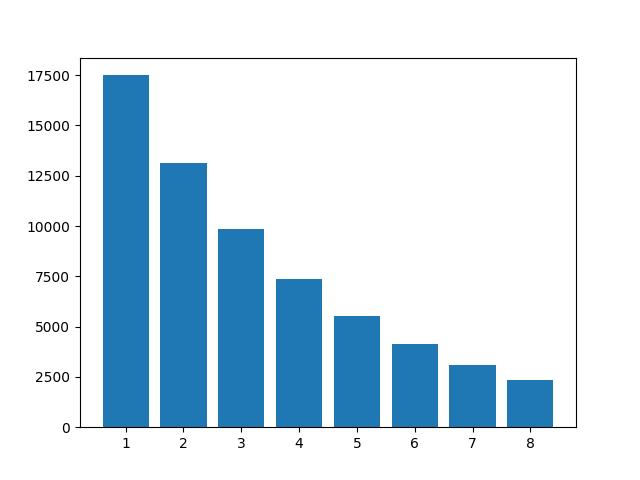
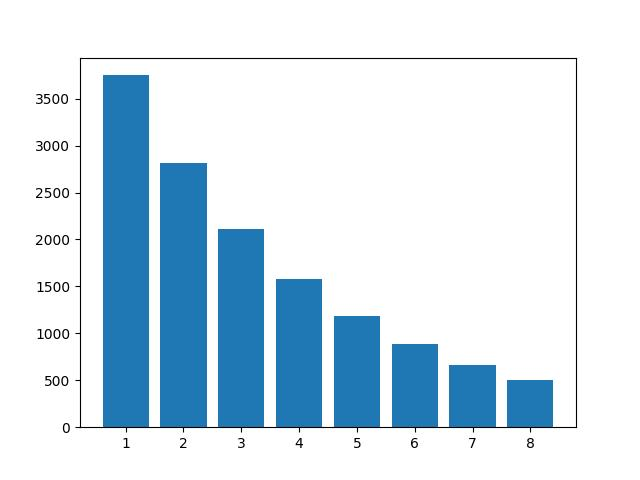
Изменения 2

diff --git a/main.py b/main.py
@@ -100,6 +100,93 @@
 #Были изменены переменные и добавлены комментарии 
 #Анна Глухова отвечала на вопросы
 #Оценка ответов на вопросы 5/5, проверила Романова Елизавета.
+#Задание номер 5 выполнено
+
+
+#№7
+# изменение со 2 на 6 вариант (15000/8)
+# линейный способ
+from sympy import *
+k, T, C, L = symbols('k T C L')
+C_ost = 15000
+Am_lst =[]
+C_ost_lst=[]
+for i in range(8):
+  Am = (C-L)/T #что это означает? - это формула амортизации
+  C_ost -= Am.subs({C:15000, T:8, L:0})
+  Am_lst.append(round(Am.subs({C: 15000, T:8, L:0}),2))
+  C_ost_lst.append(round(C_ost, 2))
+print('Am_lst:', Am_lst)
+print('C_ost_lst:', C_ost_lst)
+
+#способ уменьшаемого остатка
+Aj=0
+C_ost = 15000
+Am_lst_2=[]
+C_ost_lst_2=[] #Что это?
+for i in range(8):
+  Am = k*1/T*(C - Aj)
+  C_ost -= Am.subs({C:15000, T:8, k:2})
+  Am_lst_2.append(round(Am.subs({C:15000, T:8, k:2}), 2))
+  Aj += Am
+  C_ost_lst_2.append(round(C_ost,2))
+print('Am_lst_2:', Am_lst_2) #Что это? - вывод списка амортизации
+print('C_ost_lst_2:', C_ost_lst_2)
+
+#Контейнер табличного вывода
+import pandas as pd
+Y = range(1, 9) #Что это? - последовательность целых чисел от 1 до 9
+table1 = list(zip(Y, C_ost_lst, Am_lst))
+table2 = list(zip(Y, C_ost_lst_2, Am_lst_2))
+tfame = pd.DataFrame(table1, columns = ['Y', 'C_ost_lst', 'Am_lst'])
+tfame2 = pd.DataFrame(table2, columns = ['Y', 'C_ost_lst_2', 'Am_lst_2'])
+print(tfame)
+print(tfame2)
+
+#визуализация
+
+import numpy as np
+import matplotlib.pyplot as plt
+plt.plot(tfame['Y'], tfame['C_ost_lst'], label='Am')
+plt.savefig('chart7.png') #Что это? - сохранение графика 7 в файл
+plt.figure()
+plt.plot(tfame2['Y'], tfame2['C_ost_lst_2'], label='Am2')
+plt.savefig('chart8.png')
+plt.figure() #Что это? - создание нового окна для графика
+
+plt.figure()
+vals = Am_lst #Что это? - Присваивание переменной vals значения переменной Am_lst
+labels = [str(x) for x in range(1,9)]
+explode = (0.1,0.1,0.1,0.1,0.1,0.1,0.1,0.1)
+fig, ax = plt.subplots()
+ax.pie(vals, labels=labels, autopct='%1.1f%%', shadow=True, explode=explode, wedgeprops={'lw':1, 'ls':'--', 'edgecolor':"k"}, rotatelabels=True)
+ax.axis("equal")
+plt.savefig('chart9.png')
+plt.figure() #что это? - создание нового окна для графика
+
+plt.figure()
+vals = Am_lst_2
+labels = [str(x) for x in range(1,9)]
+explode = (0.1,0.1,0.1,0.1,0.1,0.1,0.1,0.1)
+fig, ax = plt.subplots()
+ax.pie(vals, labels=labels, autopct='%1.1f%%', shadow=True, explode=explode, wedgeprops={'lw':1, 'ls':'--', 'edgecolor':"k"}, rotatelabels=True)
+ax.axis("equal")
+plt.savefig('chart10.png')
+plt.clf() #Что это? - очистка текущего графика
+plt.figure()
+
+
+table1 = list(zip(Y, Am_lst))
+table2 = list(zip(Y, Am_lst_2))
+tframe = pd.DataFrame(table1, columns=['Y', 'Am_lst'])
+tframe2 = pd.DataFrame(table2, columns=['Y', 'Am_lst_2'])
+plt.bar(tfame['Y'], tfame['Am_lst'])
+plt.savefig('chart11.jpeg')
+plt.figure()
+plt.bar(tfame2['Y'], tfame2['Am_lst_2']) #Что это? - построение столбчатой диаграммы
+plt.savefig('chart12.jpeg')
+plt.figure()
+
 
 
 #Индивидуальное задание лр 3
@@ -107,135 +194,135 @@
 # КОНТЕЙНЕР ЗАЩИТЫ ОТ СКРЫТНОГО ВКЛЮЧЕНИЯ В БОТ-СЕТЬ
 # Вариант 12 
 
-import pandas as pd
-import matplotlib.pyplot as plt
+# import pandas as pd
+# import matplotlib.pyplot as plt
 
-# Данные
-ip_addresses = [
-    "185.130.5.253", "8.8.8.8", "94.23.15.12", "1.1.1.1",
-    "193.42.4.1", "176.9.75.45", "8.8.4.4", "89.45.87.12",
-    "5.188.86.45", "208.67.222.222"
-]
+# # Данные
+# ip_addresses = [
+#     "185.130.5.253", "8.8.8.8", "94.23.15.12", "1.1.1.1",
+#     "193.42.4.1", "176.9.75.45", "8.8.4.4", "89.45.87.12",
+#     "5.188.86.45", "208.67.222.222"
+# ]
 
-C2_SERVERS = ["185.130.5.253", "94.23.15.12", "193.42.4.1", 
-              "176.9.75.45", "89.45.87.12", "5.188.86.45"]
+# C2_SERVERS = ["185.130.5.253", "94.23.15.12", "193.42.4.1", 
+#               "176.9.75.45", "89.45.87.12", "5.188.86.45"]
 
-n = len(ip_addresses)  # n = 10
+# n = len(ip_addresses)  # n = 10
 
-# Фиксированные данные (10 значений для каждого показателя)
-connections_count = [150, 30, 180, 20, 120, 10, 90, 200, 80, 40]
-suspicious_port =   [1,   0,  1,   0,  1,   0,  0,  1,   0,  0]
-unknown_process =   [1,   0,  1,   0,  1,   0,  0,  1,   0,  0]
-high_traffic =      [1,   0,  1,   0,  1,   0,  0,  1,   0,  0]
-night_activity =    [0,   1,  0,   1,  0,   1,  1,  0,   1,  1]
+# # Фиксированные данные (10 значений для каждого показателя)
+# connections_count = [150, 30, 180, 20, 120, 10, 90, 200, 80, 40]
+# suspicious_port =   [1,   0,  1,   0,  1,   0,  0,  1,   0,  0]
+# unknown_process =   [1,   0,  1,   0,  1,   0,  0,  1,   0,  0]
+# high_traffic =      [1,   0,  1,   0,  1,   0,  0,  1,   0,  0]
+# night_activity =    [0,   1,  0,   1,  0,   1,  1,  0,   1,  1]
 
-# Определяем C&C сервер (1 - да, 0 - нет)
-c2_server = []
-for i in range(n):
-    if ip_addresses[i] in C2_SERVERS:
-        c2_server.append(1)
-    else:
-        c2_server.append(0)
+# # Определяем C&C сервер (1 - да, 0 - нет)
+# c2_server = []
+# for i in range(n):
+#     if ip_addresses[i] in C2_SERVERS:
+#         c2_server.append(1)
+#     else:
+#         c2_server.append(0)
 
-# Расчет угрозы и решений
-threat_level = []
-decision = []
+# # Расчет угрозы и решений
+# threat_level = []
+# decision = []
 
-for i in range(n):
-    threat = 0
-    if connections_count[i] > 100:
-        threat += 1
-    if suspicious_port[i] == 1:
-        threat += 1
-    if unknown_process[i] == 1:
-        threat += 2
-    if high_traffic[i] == 1:
-        threat += 1
-    if c2_server[i] == 1:
-        threat += 3
-    if night_activity[i] == 1:
-        threat += 1
+# for i in range(n):
+#     threat = 0
+#     if connections_count[i] > 100:
+#         threat += 1
+#     if suspicious_port[i] == 1:
+#         threat += 1
+#     if unknown_process[i] == 1:
+#         threat += 2
+#     if high_traffic[i] == 1:
+#         threat += 1
+#     if c2_server[i] == 1:
+#         threat += 3
+#     if night_activity[i] == 1:
+#         threat += 1
 
-    threat_level.append(threat)
-    decision.append("BLOCK" if threat >= 3 else "ALLOW")
+#     threat_level.append(threat)
+#     decision.append("BLOCK" if threat >= 3 else "ALLOW")
 
-# Таблица результатов
-data = list(zip(range(1, n+1), ip_addresses, connections_count, 
-                suspicious_port, unknown_process, high_traffic, 
-                c2_server, night_activity, threat_level, decision))
+# # Таблица результатов
+# data = list(zip(range(1, n+1), ip_addresses, connections_count, 
+#                 suspicious_port, unknown_process, high_traffic, 
+#                 c2_server, night_activity, threat_level, decision))
 
-df = pd.DataFrame(data, columns=[
-    "ID", "IP адрес", "Соединений", "Подозр. порт",
-    "Подозр. процесс", "Высокий трафик", "C&C сервер",
-    "Ночная активность", "Уровень угрозы", "Решение"
-])
-
-
-print("ЗАЩИТА ОТ СКРЫТНОГО ВКЛЮЧЕНИЯ В БОТ-СЕТЬ (Вариант 12)")
-
-print(df.to_string(index=False))
-print("\nСтатистика решений:")
-print(df["Решение"].value_counts())
+# df = pd.DataFrame(data, columns=[
+#     "ID", "IP адрес", "Соединений", "Подозр. порт",
+#     "Подозр. процесс", "Высокий трафик", "C&C сервер",
+#     "Ночная активность", "Уровень угрозы", "Решение"
+# ])
 
 
-# ============================================================
-# ВИЗУАЛИЗАЦИЯ
-# ============================================================
+# print("ЗАЩИТА ОТ СКРЫТНОГО ВКЛЮЧЕНИЯ В БОТ-СЕТЬ (Вариант 12)")
 
-plt.style.use('ggplot')
+# print(df.to_string(index=False))
+# print("\nСтатистика решений:")
+# print(df["Решение"].value_counts())
 
-# График 1: Количество соединений по IP
-plt.figure(figsize=(14, 6))
-plt.plot(ip_addresses, df["Соединений"], marker='o', color='blue')
-plt.title("Количество сетевых соединений по IP-адресам")
-plt.xlabel("IP-адрес")
-plt.ylabel("Количество соединений")
-plt.xticks(rotation=45, ha="right")
-plt.grid(True)
-plt.tight_layout()
-plt.savefig("chart_connections.png")
-plt.close()
 
-# График 2: Уровень угрозы по IP
-plt.figure(figsize=(14, 6))
-plt.plot(ip_addresses, df["Уровень угрозы"], marker='s', color='red')
-plt.title("Уровень угрозы скрытного включения в бот-сеть")
-plt.xlabel("IP-адрес")
-plt.ylabel("Уровень угрозы (баллы)")
-plt.xticks(rotation=45, ha="right")
-plt.grid(True)
-plt.tight_layout()
-plt.savefig("chart_threat.png")
-plt.close()
+# # ============================================================
+# # ВИЗУАЛИЗАЦИЯ
+# # ============================================================
 
-# График 3: Круговая диаграмма решений
-plt.figure(figsize=(8, 8))
-decision_counts = df["Решение"].value_counts()
-labels = ["Разрешить", "Заблокировать"]
-sizes = [decision_counts.get("ALLOW", 0), decision_counts.get("BLOCK", 0)]
-colors = ['#66b3ff', '#ff6666']
-plt.pie(sizes, labels=labels, autopct='%1.1f%%', startangle=90,
-        shadow=True, explode=(0.05, 0.1), colors=colors)
-plt.title("Распределение решений контейнера")
-plt.savefig("chart_pie.png")
-plt.close()
+# plt.style.use('ggplot')
 
-# График 4: Гистограмма факторов риска
-plt.figure(figsize=(10, 6))
-risk_factors = df[["Подозр. порт", "Подозр. процесс", "Высокий трафик", 
-                   "C&C сервер", "Ночная активность"]].sum()
-risk_factors.plot(kind='bar', color=['blue', 'red', 'green', 'purple', 'orange'])
-plt.title("Суммарные срабатывания факторов риска")
-plt.ylabel("Количество случаев")
-plt.xticks(rotation=45)
-plt.grid(axis='y')
-plt.tight_layout()
-plt.savefig("chart_risk_factors.png")
-plt.close()
+# # График 1: Количество соединений по IP
+# plt.figure(figsize=(14, 6))
+# plt.plot(ip_addresses, df["Соединений"], marker='o', color='blue')
+# plt.title("Количество сетевых соединений по IP-адресам")
+# plt.xlabel("IP-адрес")
+# plt.ylabel("Количество соединений")
+# plt.xticks(rotation=45, ha="right")
+# plt.grid(True)
+# plt.tight_layout()
+# plt.savefig("chart_connections.png")
+# plt.close()
 
-print("\nСозданные графики:")
-print("  - chart_connections.png")
-print("  - chart_threat.png")
-print("  - chart_pie.png")
-print("  - chart_risk_factors.png")
-print("\nРАБОТА ЗАВЕРШЕНА")
+# # График 2: Уровень угрозы по IP
+# plt.figure(figsize=(14, 6))
+# plt.plot(ip_addresses, df["Уровень угрозы"], marker='s', color='red')
+# plt.title("Уровень угрозы скрытного включения в бот-сеть")
+# plt.xlabel("IP-адрес")
+# plt.ylabel("Уровень угрозы (баллы)")
+# plt.xticks(rotation=45, ha="right")
+# plt.grid(True)
+# plt.tight_layout()
+# plt.savefig("chart_threat.png")
+# plt.close()
+
+# # График 3: Круговая диаграмма решений
+# plt.figure(figsize=(8, 8))
+# decision_counts = df["Решение"].value_counts()
+# labels = ["Разрешить", "Заблокировать"]
+# sizes = [decision_counts.get("ALLOW", 0), decision_counts.get("BLOCK", 0)]
+# colors = ['#66b3ff', '#ff6666']
+# plt.pie(sizes, labels=labels, autopct='%1.1f%%', startangle=90,
+#         shadow=True, explode=(0.05, 0.1), colors=colors)
+# plt.title("Распределение решений контейнера")
+# plt.savefig("chart_pie.png")
+# plt.close()
+
+# # График 4: Гистограмма факторов риска
+# plt.figure(figsize=(10, 6))
+# risk_factors = df[["Подозр. порт", "Подозр. процесс", "Высокий трафик", 
+#                    "C&C сервер", "Ночная активность"]].sum()
+# risk_factors.plot(kind='bar', color=['blue', 'red', 'green', 'purple', 'orange'])
+# plt.title("Суммарные срабатывания факторов риска")
+# plt.ylabel("Количество случаев")
+# plt.xticks(rotation=45)
+# plt.grid(axis='y')
+# plt.tight_layout()
+# plt.savefig("chart_risk_factors.png")
+# plt.close()
+
+# print("\nСозданные графики:")
+# print("  - chart_connections.png")
+# print("  - chart_threat.png")
+# print("  - chart_pie.png")
+# print("  - chart_risk_factors.png")
+# print("\nРАБОТА ЗАВЕРШЕНА")
